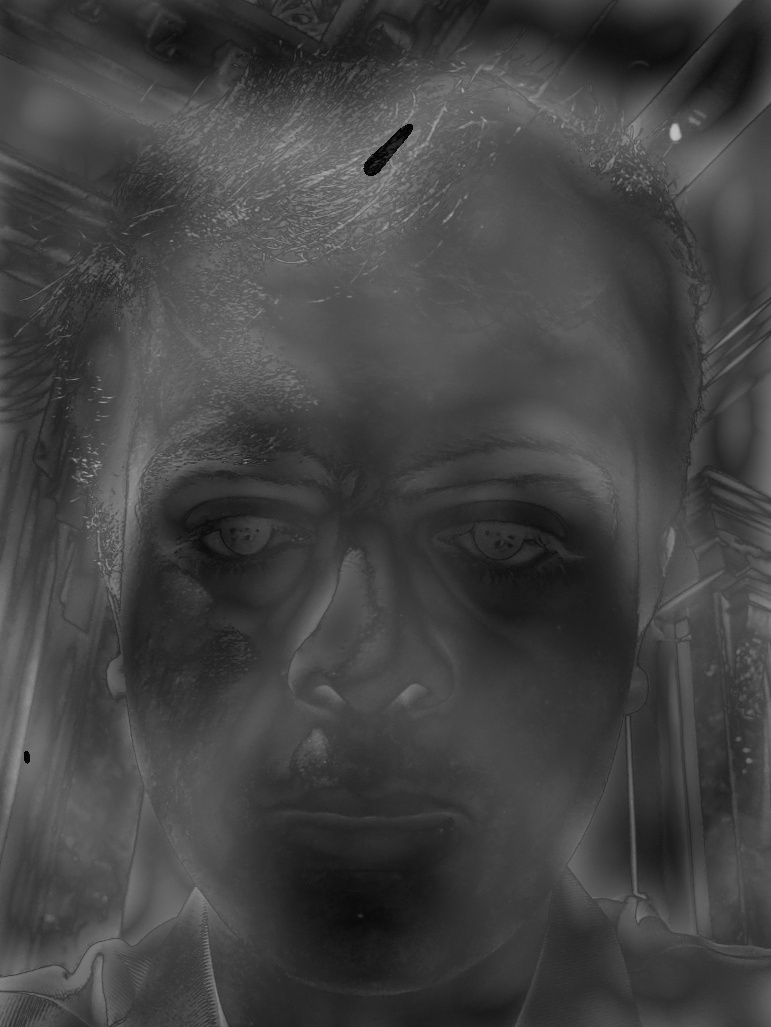
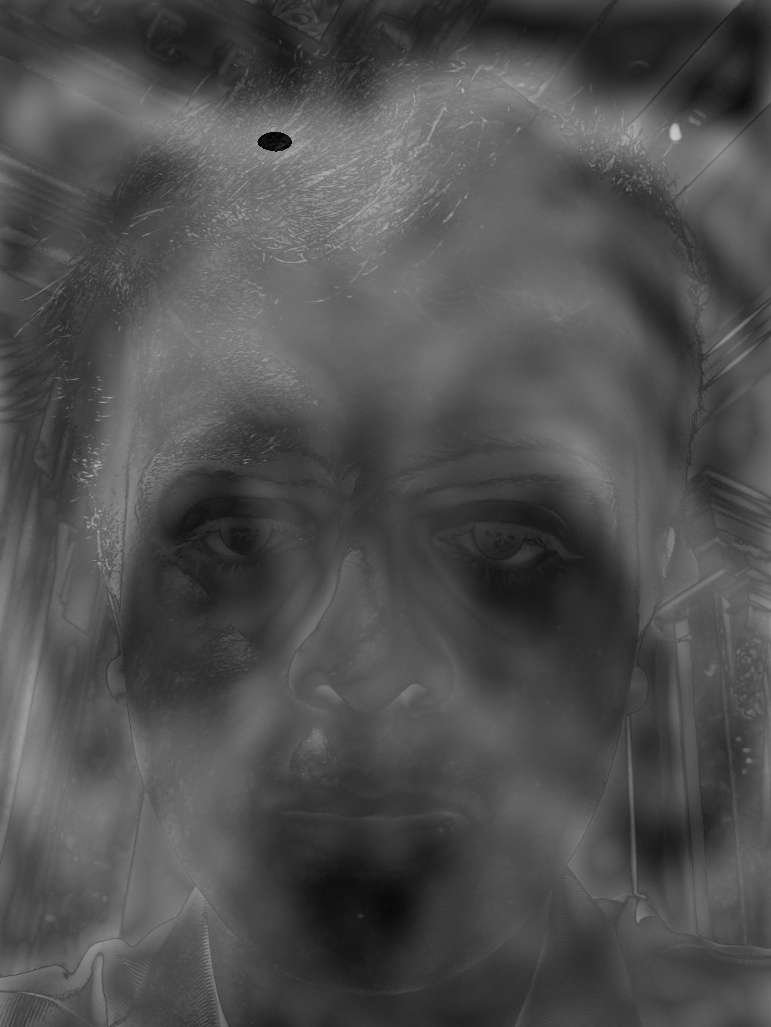
image looks good

diff --git a/A1Final/A1/assignment1.py b/A1Final/A1/assignment1.py
@@ -90,7 +90,7 @@ imagetoFFT = frequency_fusion.imageToFourierDomain("roughImageFolder/" +"image1.
 rowsOfImage, colOfImage = frequency_fusion.imagePixels("roughImageFolder/" +"image1.jpg")
 # create a high frequency filter by erasing all the low frequencies (we do this by erasing all the values in the middle in the form of a circle)
 # the radius of the circle is 10 in the current case, the bigger the radius, the more low frequencyeis we are removing
-filterWindow = frequency_fusion.filterWindowHighFreq(10, rowsOfImage, colOfImage)
+filterWindow = frequency_fusion.filterWindowHighFreq(12, rowsOfImage, colOfImage)
 ### Apply the filter onto teh image
 imageFFTAppliedFilter = frequency_fusion.applyFilter(imagetoFFT,filterWindow)
 # Output the high frequency image
@@ -107,7 +107,7 @@ imagetoFFT = frequency_fusion.imageToFourierDomain("roughImageFolder/" +"aligned
 rowsOfImage, colOfImage = frequency_fusion.imagePixels("roughImageFolder/" +"aligned.jpg")
 # create a high frequency filter by erasing all the low frequencies (we do this by erasing all the values in the middle in the form of a circle)
 # the radius of the circle is 10 in the current case, the bigger the radius, the more low frequencyeis we are removing
-filterWindow = frequency_fusion.filterWindowLowFreq(10, rowsOfImage, colOfImage)
+filterWindow = frequency_fusion.filterWindowLowFreq(15, rowsOfImage, colOfImage)
 ### Apply the filter onto teh image
 imageFFTAppliedFilter = frequency_fusion.applyFilter(imagetoFFT,filterWindow)
 # Output the low frequency image

diff --git a/A1Final/A1/alignment1.py b/A1Final/A1/alignment1.py
@@ -84,8 +84,8 @@ def grayScale(imageFileName):
 # I initally used this for the spatial domain but I am now using it for frequency domain as well
 def hybrid(imageFileName1, imageFileName2, name):
     # get weight of images as in alpha and beta
-    image1Weight = 0.4
-    image2Weight = 0.6
+    image1Weight = 0.5
+    image2Weight = 0.5
 
     
     image1Gaus = cv2.imread(imageFileName1)
